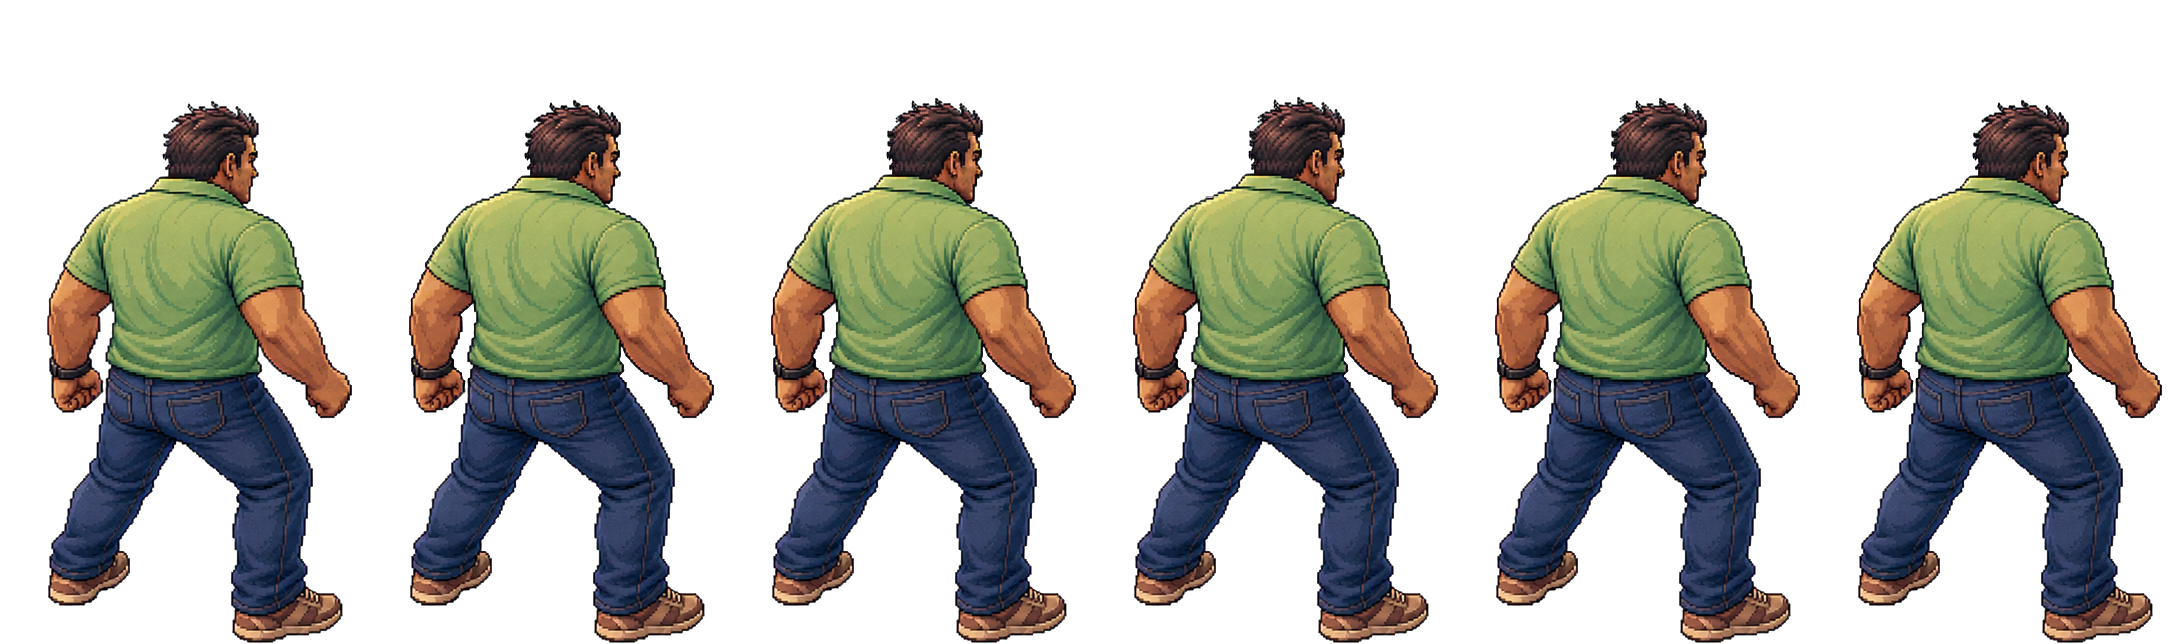
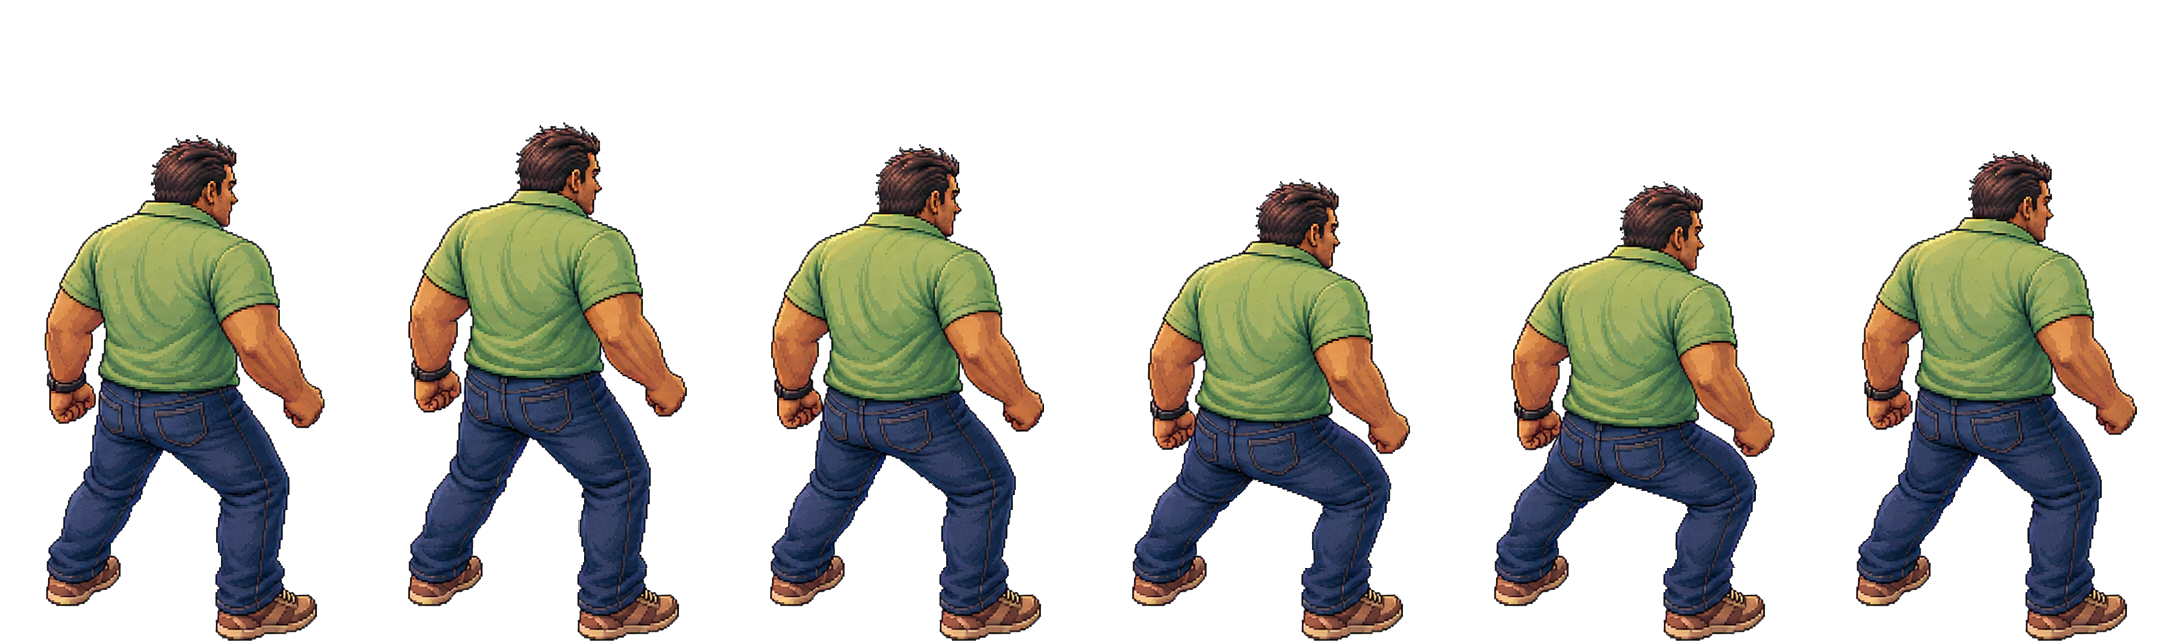
Restore dynamic anchored combat idles

diff --git a/tools/normalize_combat_idle.py b/tools/normalize_combat_idle.py
@@ -1,0 +1,202 @@
+#!/usr/bin/env python3
+"""Normalize generated combat-idle sheets around fixed foot contacts.
+
+The source is a six-column RGBA sheet.  Each frame keeps its generated pose,
+but the two lower legs are progressively sheared from the knee down so both
+feet land on the frame-zero anchors.  The footwear pixels are then copied from
+frame zero, making the ground contact exact without freezing the knees or hips.
+"""
+
+from __future__ import annotations
+
+import argparse
+from dataclasses import dataclass
+from pathlib import Path
+
+from PIL import Image
+
+
+FRAME_WIDTH = 362
+FRAME_HEIGHT = 644
+FRAME_COUNT = 6
+ALPHA_THRESHOLD = 128
+
+
+@dataclass(frozen=True)
+class Profile:
+    blend_left_x: int
+    blend_right_x: int
+    warp_start_y: int
+    rigid_from_y: int
+    back_foot_window: tuple[int, int]
+    front_foot_window: tuple[int, int]
+    footwear_regions: tuple[tuple[int, int, int, int], ...]
+
+
+PROFILES = {
+    "juan": Profile(
+        blend_left_x=140,
+        blend_right_x=222,
+        warp_start_y=430,
+        rigid_from_y=548,
+        back_foot_window=(0, 181),
+        front_foot_window=(181, FRAME_WIDTH),
+        footwear_regions=((34, 548, 128, 612), (205, 568, 336, 644)),
+    ),
+    "michu": Profile(
+        blend_left_x=140,
+        blend_right_x=222,
+        warp_start_y=430,
+        rigid_from_y=548,
+        back_foot_window=(0, 181),
+        front_foot_window=(181, FRAME_WIDTH),
+        footwear_regions=((32, 548, 134, 614), (194, 574, 334, 644)),
+    ),
+}
+
+
+def smoothstep(value: float) -> float:
+    value = min(1.0, max(0.0, value))
+    return value * value * (3.0 - 2.0 * value)
+
+
+def foot_anchor(frame: Image.Image, window: tuple[int, int]) -> tuple[int, int]:
+    """Return the midpoint of the lowest three opaque rows in one foot window."""
+    alpha = frame.getchannel("A")
+    x0, x1 = window
+    points: list[tuple[int, int]] = []
+    for y in range(500, FRAME_HEIGHT):
+        for x in range(x0, x1):
+            if alpha.getpixel((x, y)) >= ALPHA_THRESHOLD:
+                points.append((x, y))
+    if not points:
+        raise ValueError(f"no opaque foot pixels found in window {window}")
+    lowest_y = max(y for _, y in points)
+    contact_x = [x for x, y in points if y >= lowest_y - 2]
+    return round(sum(contact_x) / len(contact_x)), lowest_y
+
+
+def warp_row(
+    source: Image.Image,
+    destination: Image.Image,
+    y: int,
+    left_dx: float,
+    right_dx: float,
+    blend_left_x: int,
+    blend_right_x: int,
+) -> None:
+    """Continuously shear a row between independently anchored legs."""
+    source_pixels = source.load()
+    destination_pixels = destination.load()
+    destination_left = blend_left_x + left_dx
+    destination_right = blend_right_x + right_dx
+    destination_span = destination_right - destination_left
+    source_span = blend_right_x - blend_left_x
+
+    for destination_x in range(FRAME_WIDTH):
+        if destination_x <= destination_left:
+            source_x = destination_x - left_dx
+        elif destination_x >= destination_right:
+            source_x = destination_x - right_dx
+        else:
+            source_x = blend_left_x + (
+                (destination_x - destination_left) * source_span / destination_span
+            )
+        nearest_x = round(source_x)
+        if 0 <= nearest_x < FRAME_WIDTH:
+            destination_pixels[destination_x, y] = source_pixels[nearest_x, y]
+
+
+def anchor_lower_legs(
+    frame: Image.Image,
+    profile: Profile,
+    back_dx: int,
+    front_dx: int,
+) -> Image.Image:
+    output = Image.new("RGBA", frame.size, (0, 0, 0, 0))
+    output.alpha_composite(frame.crop((0, 0, FRAME_WIDTH, profile.warp_start_y)))
+
+    transition = profile.rigid_from_y - profile.warp_start_y
+    for y in range(profile.warp_start_y, FRAME_HEIGHT):
+        progress = smoothstep((y - profile.warp_start_y) / transition)
+        warp_row(
+            frame,
+            output,
+            y,
+            back_dx * progress,
+            front_dx * progress,
+            profile.blend_left_x,
+            profile.blend_right_x,
+        )
+    return output
+
+
+def translate_vertical(frame: Image.Image, dy: int) -> Image.Image:
+    translated = Image.new("RGBA", frame.size, (0, 0, 0, 0))
+    translated.alpha_composite(frame, (0, dy))
+    return translated
+
+
+def lock_footwear(
+    frame: Image.Image,
+    reference: Image.Image,
+    regions: tuple[tuple[int, int, int, int], ...],
+) -> None:
+    transparent = Image.new("RGBA", frame.size, (0, 0, 0, 0))
+    for region in regions:
+        frame.paste(transparent.crop(region), region)
+        frame.alpha_composite(reference.crop(region), (region[0], region[1]))
+
+
+def build_sheet(source_path: Path, output_path: Path, profile: Profile) -> None:
+    source = Image.open(source_path).convert("RGBA")
+    if source.width != FRAME_WIDTH * FRAME_COUNT or source.height < FRAME_HEIGHT:
+        raise ValueError(
+            "source must be six 362 px columns and at least 644 px high; "
+            f"got {source.size}"
+        )
+
+    frames = [
+        source.crop((i * FRAME_WIDTH, 0, (i + 1) * FRAME_WIDTH, FRAME_HEIGHT))
+        for i in range(FRAME_COUNT)
+    ]
+    target_back = foot_anchor(frames[0], profile.back_foot_window)
+    target_front = foot_anchor(frames[0], profile.front_foot_window)
+
+    normalized: list[Image.Image] = []
+    for frame in frames:
+        front = foot_anchor(frame, profile.front_foot_window)
+        frame = translate_vertical(frame, target_front[1] - front[1])
+        back = foot_anchor(frame, profile.back_foot_window)
+        front = foot_anchor(frame, profile.front_foot_window)
+        corrected = anchor_lower_legs(
+            frame,
+            profile,
+            target_back[0] - back[0],
+            target_front[0] - front[0],
+        )
+        normalized.append(corrected)
+
+    for frame in normalized[1:]:
+        lock_footwear(frame, normalized[0], profile.footwear_regions)
+
+    sheet = Image.new(
+        "RGBA", (FRAME_WIDTH * FRAME_COUNT, FRAME_HEIGHT), (0, 0, 0, 0)
+    )
+    for index, frame in enumerate(normalized):
+        sheet.alpha_composite(frame, (index * FRAME_WIDTH, 0))
+    output_path.parent.mkdir(parents=True, exist_ok=True)
+    sheet.save(output_path, optimize=True, compress_level=9)
+
+
+def main() -> None:
+    parser = argparse.ArgumentParser()
+    parser.add_argument("character", choices=sorted(PROFILES))
+    parser.add_argument("source", type=Path)
+    parser.add_argument("output", type=Path)
+    args = parser.parse_args()
+    build_sheet(args.source, args.output, PROFILES[args.character])
+
+
+if __name__ == "__main__":
+    main()

diff --git a/tools/validate_pngs.py b/tools/validate_pngs.py
@@ -14,8 +14,21 @@ EXPECTED_ANIMATION_SHEETS = {
 }
 
 LOCKED_COMBAT_IDLE_REGIONS = {
-    Path("assets/characters/combat/juan_combat_idle.png"): (362, 6, 386),
-    Path("assets/characters/combat/michu_combat_idle.png"): (362, 6, 358),
+    Path("assets/characters/combat/juan_combat_idle.png"): (
+        362,
+        6,
+        ((34, 548, 128, 612), (205, 568, 336, 644)),
+    ),
+    Path("assets/characters/combat/michu_combat_idle.png"): (
+        362,
+        6,
+        ((32, 548, 134, 614), (194, 574, 334, 644)),
+    ),
+}
+
+MINIMUM_COMBAT_IDLE_TRAVEL = {
+    Path("assets/characters/combat/juan_combat_idle.png"): (362, 6, 40),
+    Path("assets/characters/combat/michu_combat_idle.png"): (362, 6, 130),
 }
 
 
@@ -81,25 +94,58 @@ def validate_locked_idle_region(
     dimensions: tuple[int, int],
     frame_width: int,
     frame_count: int,
-    locked_from_y: int,
+    locked_regions: tuple[tuple[int, int, int, int], ...],
 ) -> None:
     width, height = dimensions
     if width != frame_width * frame_count:
         raise ValueError("locked combat idle geometry does not match frame layout")
-    if not 0 <= locked_from_y < height:
-        raise ValueError("locked combat idle region starts outside the sheet")
     rows = decode_rgba_scanlines(compressed, width, height)
     frame_stride = frame_width * 4
-    for y in range(locked_from_y, height):
-        reference = rows[y][0:frame_stride]
-        for frame_index in range(1, frame_count):
-            start = frame_index * frame_stride
-            candidate = rows[y][start : start + frame_stride]
-            if candidate != reference:
-                raise ValueError(
-                    "combat idle feet drift: lower body differs from frame 0 "
-                    f"in frame {frame_index} at row {y}"
-                )
+    for x0, y0, x1, y1 in locked_regions:
+        if not (0 <= x0 < x1 <= frame_width and 0 <= y0 < y1 <= height):
+            raise ValueError("locked combat idle region lies outside a frame")
+        for y in range(y0, y1):
+            reference = rows[y][x0 * 4 : x1 * 4]
+            for frame_index in range(1, frame_count):
+                start = frame_index * frame_stride + x0 * 4
+                candidate = rows[y][start : start + (x1 - x0) * 4]
+                if candidate != reference:
+                    raise ValueError(
+                        "combat idle foot contact drifts from frame 0 "
+                        f"in frame {frame_index}, region {(x0, y0, x1, y1)}"
+                    )
+
+
+def validate_idle_motion(
+    compressed: bytes,
+    dimensions: tuple[int, int],
+    frame_width: int,
+    frame_count: int,
+    minimum_vertical_travel: int,
+) -> None:
+    width, height = dimensions
+    if width != frame_width * frame_count:
+        raise ValueError("combat idle motion geometry does not match frame layout")
+    rows = decode_rgba_scanlines(compressed, width, height)
+    frame_stride = frame_width * 4
+    opaque_tops: list[int] = []
+    for frame_index in range(frame_count):
+        frame_start = frame_index * frame_stride
+        top = None
+        for y, row in enumerate(rows):
+            alpha = row[frame_start + 3 : frame_start + frame_stride : 4]
+            if any(value >= 128 for value in alpha):
+                top = y
+                break
+        if top is None:
+            raise ValueError(f"combat idle frame {frame_index} is empty")
+        opaque_tops.append(top)
+    travel = max(opaque_tops) - min(opaque_tops)
+    if travel < minimum_vertical_travel:
+        raise ValueError(
+            "combat idle has lost its body compression: "
+            f"expected at least {minimum_vertical_travel}px, got {travel}px"
+        )
 
 
 def validate(path: Path) -> None:
@@ -169,6 +215,12 @@ def validate(path: Path) -> None:
             bytes(compressed),
             dimensions,
             *LOCKED_COMBAT_IDLE_REGIONS[path],
+        )
+    if path in MINIMUM_COMBAT_IDLE_TRAVEL:
+        validate_idle_motion(
+            bytes(compressed),
+            dimensions,
+            *MINIMUM_COMBAT_IDLE_TRAVEL[path],
         )
 
 